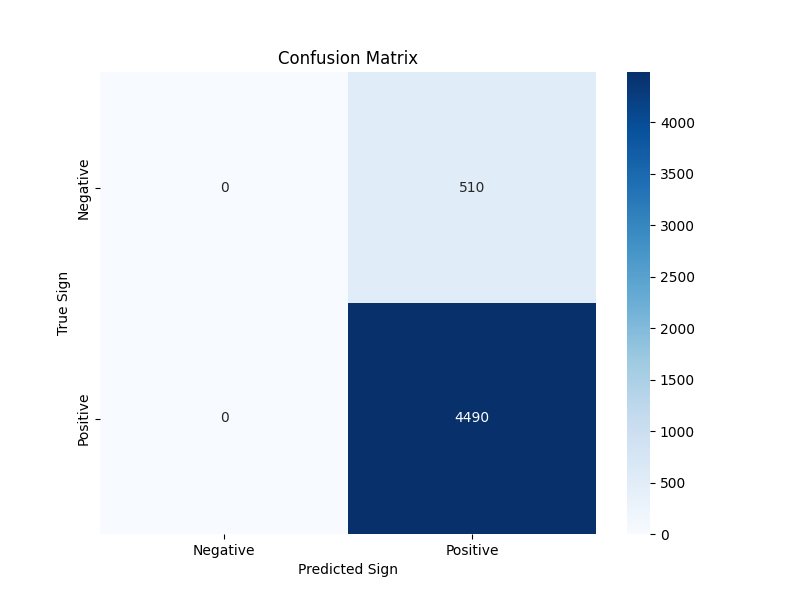
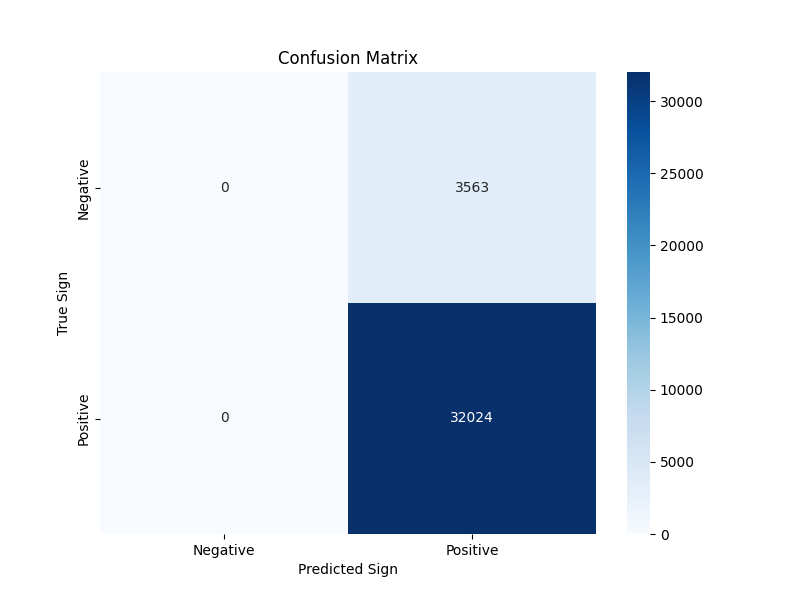
Fix data leakage in evaluation method

diff --git a/notebooks/strict_evaluation_test.py b/notebooks/strict_evaluation_test.py
@@ -44,19 +44,24 @@ def strict_evaluation_test(G, n_folds=3, cycle_length=3, edges_per_fold=20):
         train_edges = [all_edges[i] for i in train_idx]
         test_edges = [all_edges[i] for i in test_idx]
         
-        # Sample test edges (ensure some negative edges)
-        pos_test_edges = [e for e in test_edges if e[2]['weight'] > 0]
-        neg_test_edges = [e for e in test_edges if e[2]['weight'] < 0]
+        # Sample test edges (ensure 50% negative edges as per Vide)
+        pos_test_edges = [(i, e) for i, e in enumerate(test_edges) if e[2]['weight'] > 0]
+        neg_test_edges = [(i, e) for i, e in enumerate(test_edges) if e[2]['weight'] < 0]
         
-        # Sample proportionally
-        n_pos_sample = int(edges_per_fold * 0.8)  # 80% positive
-        n_neg_sample = edges_per_fold - n_pos_sample
+        # Sample 50/50 positive/negative
+        n_pos_sample = edges_per_fold // 2
+        n_neg_sample = edges_per_fold // 2
+        
+        # Handle case where we don't have enough negative edges
+        if len(neg_test_edges) < n_neg_sample:
+            n_neg_sample = len(neg_test_edges)
+            n_pos_sample = edges_per_fold - n_neg_sample
         
         sampled_pos = random.sample(pos_test_edges, min(n_pos_sample, len(pos_test_edges)))
         sampled_neg = random.sample(neg_test_edges, min(n_neg_sample, len(neg_test_edges)))
         sampled_test_edges = sampled_pos + sampled_neg
         
-        print(f"\nFold {fold}/{n_folds} (sampled {len(sampled_test_edges)} test edges)...")
+        print(f"\nFold {fold}/{n_folds} (sampled {len(sampled_test_edges)} test edges: {len(sampled_pos)} pos, {len(sampled_neg)} neg)...")
         
         # Create training graph
         G_train = nx.DiGraph()
@@ -81,21 +86,32 @@ def strict_evaluation_test(G, n_folds=3, cycle_length=3, edges_per_fold=20):
         # Process sampled test edges
         print(f"Predicting {len(sampled_test_edges)} sampled test edges...")
         
-        for u, v, data in sampled_test_edges:
+        for idx_in_test, (u, v, data) in sampled_test_edges:
             # True label
             true_sign = data['weight']
             all_y_true.append(true_sign)
             
-            # Check if nodes exist in training graph
-            if u not in G_train.nodes() or v not in G_train.nodes():
+            # Create test graph without current edge
+            G_test = nx.DiGraph()
+            for j, (u2, v2, data2) in enumerate(test_edges):
+                if j != idx_in_test:  # Skip current edge
+                    G_test.add_edge(u2, v2, **data2)
+            
+            # Ensure connectivity and reindex
+            if G_test.number_of_edges() > 0:
+                G_test = ensure_connectivity(G_test)
+                G_test = reindex_nodes(G_test)
+            
+            # Check if nodes exist in test graph
+            if G_test.number_of_edges() == 0 or u not in G_test.nodes() or v not in G_test.nodes():
                 all_y_pred.append(1)
                 all_y_prob.append(0.5)
                 continue
             
             try:
-                # Extract features
+                # Extract features from TEST graph (not training!) - This is the key fix
                 X_test, _, _ = feature_matrix_from_graph(
-                    G_train, 
+                    G_test,  # Changed from G_train to G_test
                     edges=[(u, v, {'weight': 1})],
                     k=cycle_length
                 )
@@ -141,7 +157,7 @@ def main():
     
     # Run test evaluation
     print("\n" + "="*50)
-    print("Running Vide's test evaluation (3 folds, 20 edges per fold)...")
+    print("Running Vide's test evaluation (3 folds, 20 edges per fold, 50% negative)...")
     
     metrics = strict_evaluation_test(G_connected, n_folds=3, cycle_length=3, edges_per_fold=20)
     

diff --git a/notebooks/strict_evaluation.py b/notebooks/strict_evaluation.py
@@ -68,42 +68,39 @@ def strict_evaluation(G, n_folds=10, cycle_length=3):
         print("Training model...")
         model = train_edge_sign_classifier(X_train_scaled, y_train)
         
-        # Pre-filter test edges for valid nodes
-        print("Pre-filtering test edges...")
-        valid_edges = []
-        invalid_edges = []
-        
-        train_nodes = set(G_train.nodes())
-        for i, (u, v, data) in enumerate(test_edges):
-            if u in train_nodes and v in train_nodes:
-                valid_edges.append((i, u, v, data))
-            else:
-                invalid_edges.append((i, u, v, data))
-        
-        print(f"Valid edges: {len(valid_edges)}, Invalid edges: {len(invalid_edges)}")
-        
-        # Process invalid edges quickly
-        for _, _, _, data in invalid_edges:
-            all_y_true.append(data['weight'])
-            all_y_pred.append(1)  # Default positive
-            all_y_prob.append(0.5)
-        
-        # Process valid edges with better progress tracking
-        print(f"Predicting {len(valid_edges)} valid test edges...")
+        # Process test edges (no need to filter anymore as per Vide)
+        print(f"Predicting {len(test_edges)} test edges...")
         pred_start = time.time()
         edge_times = []
         
-        for idx, (orig_idx, u, v, data) in enumerate(valid_edges):
+        for idx, (u, v, data) in enumerate(test_edges):
             edge_start = time.time()
             
             # True label
             true_sign = data['weight']
             all_y_true.append(true_sign)
             
+            # Create test graph without current edge
+            G_test = nx.DiGraph()
+            for j, (u2, v2, data2) in enumerate(test_edges):
+                if j != idx:  # Skip current edge
+                    G_test.add_edge(u2, v2, **data2)
+            
+            # Ensure connectivity and reindex for test graph
+            if G_test.number_of_edges() > 0:
+                G_test = ensure_connectivity(G_test)
+                G_test = reindex_nodes(G_test)
+            
+            # Check if nodes exist in test graph
+            if G_test.number_of_edges() == 0 or u not in G_test.nodes() or v not in G_test.nodes():
+                all_y_pred.append(1)  # Default positive
+                all_y_prob.append(0.5)
+                continue
+            
             try:
-                # Extract features for this edge
+                # Extract features from TEST graph (not training!) - This is the key fix
                 X_test, _, _ = feature_matrix_from_graph(
-                    G_train, 
+                    G_test,  # Changed from G_train to G_test
                     edges=[(u, v, {'weight': 1})],
                     k=cycle_length
                 )
@@ -126,13 +123,13 @@ def strict_evaluation(G, n_folds=10, cycle_length=3):
             edge_times.append(edge_time)
             
             # Update progress every 50 edges
-            if (idx + 1) % 50 == 0 or (idx + 1) == len(valid_edges):
+            if (idx + 1) % 50 == 0 or (idx + 1) == len(test_edges):
                 avg_time = np.mean(edge_times[-50:]) if len(edge_times) >= 50 else np.mean(edge_times)
                 elapsed = time.time() - pred_start
                 rate = (idx + 1) / elapsed
-                remaining = (len(valid_edges) - idx - 1) / rate
+                remaining = (len(test_edges) - idx - 1) / rate
                 
-                print(f"  Progress: {idx+1}/{len(valid_edges)} ({rate:.1f} edges/sec, "
+                print(f"  Progress: {idx+1}/{len(test_edges)} ({rate:.1f} edges/sec, "
                       f"~{remaining/60:.1f} min remaining)")
         
         fold_time = time.time() - fold_start
